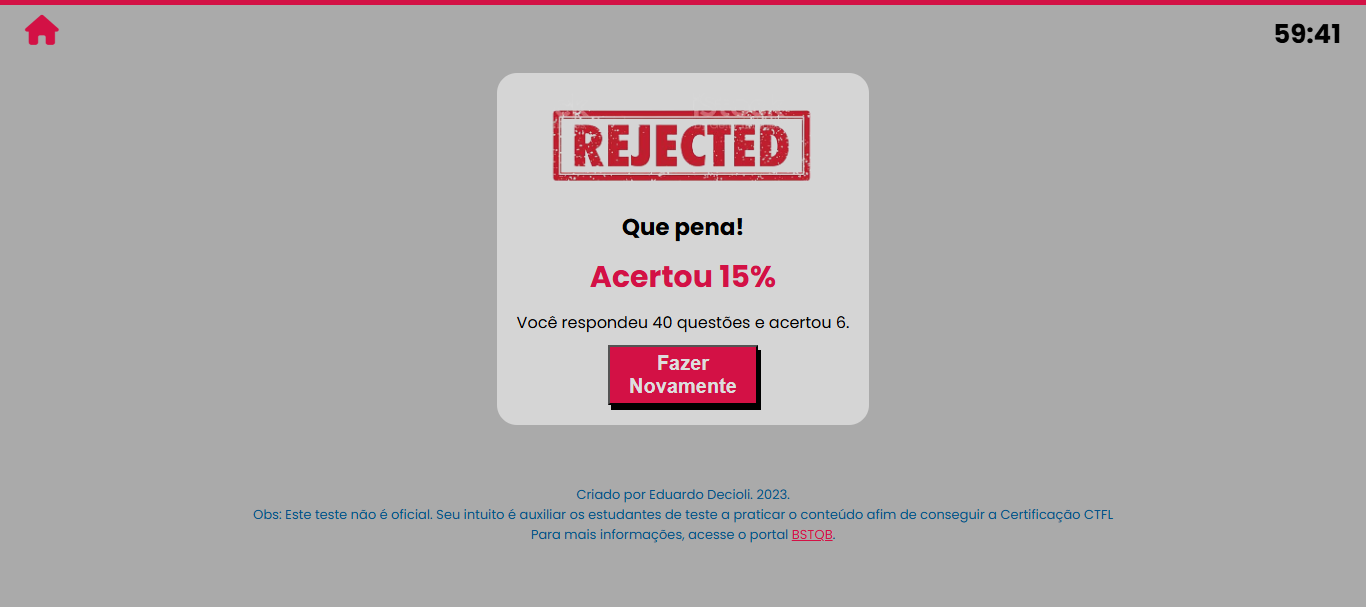
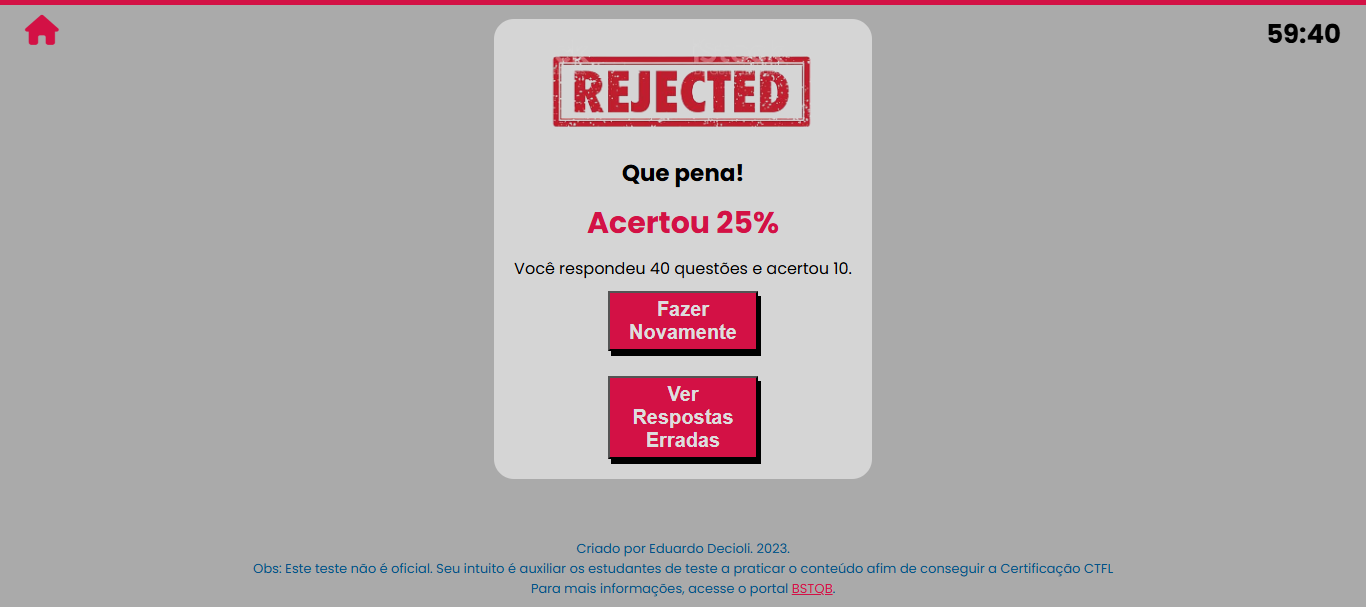
Criado botão para mostrar questões erradas
Criado botão 'Ver Respostas Erradas' para conferir as respostas selecionadas erradas e também implementado para selecionar as questões randomicamente.

diff --git a/CTFL/script.js b/CTFL/script.js
@@ -3,12 +3,12 @@
 let currentQuestion = 0;
 let points = 0;
 var timer;
+const respostasErradas = [];
 
 let scoreArea = document.querySelector('.scoreArea button')
-if(scoreArea){
+if (scoreArea) {
     scoreArea.addEventListener('click', resetEvent)
 }
-
 
 //função do botão iniciar
 function comecar() {
@@ -18,15 +18,16 @@ function comecar() {
     startTimer();
     showQuestion();
 }
+
 //função para começar o timer
-function startTimer(){
+function startTimer() {
     var presentTime = document.getElementById("timer").innerHTML;
     var timeArray = presentTime.split(":");
     var minutes = timeArray[0];
     var seconds = timeArray[1];
     var totalSeconds = minutes * 60 + parseInt(seconds);
-  
-    timer = setInterval(function() {
+
+    timer = setInterval(function () {
         if (totalSeconds <= 0) {
             clearInterval(timer);
             alert("Timer finalizado!");
@@ -39,58 +40,73 @@ function startTimer(){
         }
         document.getElementById("timer").innerHTML = minutes + ":" + seconds;
         totalSeconds--;
-  }, 1000);
+    }, 1000);
 }
-function stopTimer(){
+function stopTimer() {
     clearInterval(timer);
 }
+
 //função para mostrar as questões;
-function showQuestion(){
-    if (questions[currentQuestion]){
-        let q = questions[currentQuestion];
-        
-        //calcula porcentagem para fazer a animação na barra de progresso avançar conforme avança as questões
-        let pct = Math.floor((currentQuestion / questions.length) * 100);
+let questionsShuffled = [];
+
+function shuffleQuestions() {
+    questionsShuffled = [...questions]; // copia o array original
+    for (let i = questionsShuffled.length - 1; i > 0; i--) {
+        let j = Math.floor(Math.random() * (i + 1));
+        [questionsShuffled[i], questionsShuffled[j]] = [questionsShuffled[j], questionsShuffled[i]];
+    }
+}
+
+function showQuestion() {
+    if (currentQuestion === 0) shuffleQuestions(); // embaralha no início
+
+    if (questionsShuffled[currentQuestion]) {
+        let q = questionsShuffled[currentQuestion];
+
+        let pct = Math.floor((currentQuestion / questionsShuffled.length) * 100);
         document.querySelector('.progress--bar').style.width = `${pct}%`;
 
-        //esconde a area do resultado e mostra a area das questões
         document.querySelector('.scoreArea').style.display = 'none';
         document.querySelector('.questionArea').style.display = 'block';
 
-        //monta a questão
-        document.querySelector('.question').innerHTML = parseInt(currentQuestion + 1) + ' - ' + q.question;
+        document.querySelector('.question').innerHTML = `${currentQuestion + 1} - ${q.question}`;
 
-        //colocar as alternativas
-        let optionsHTML = ''; 
+        let optionsHTML = '';
         for (let i in q.options) {
-            optionsHTML += `<div data-op="${i}" class="option"><span>${parseInt(i)+1}</span> ${q.options[i]}</div>`;
+            optionsHTML += `<div data-op="${i}" class="option"><span>${parseInt(i) + 1}</span> ${q.options[i]}</div>`;
         }
         document.querySelector('.options').innerHTML = optionsHTML;
 
-        //evento de clique na opção
-        document.querySelectorAll('.options .option').forEach(item =>{
+        document.querySelectorAll('.options .option').forEach(item => {
             item.addEventListener('click', optionClickEvent);
-        })
-    }
-    else{
+        });
+
+    } else {
         finishQuiz();
     }
-}    
+}
 
 //função para avançar as questões
 function optionClickEvent(e) {
     let clickedOption = parseInt(e.target.getAttribute('data-op'));
-    console.log(clickedOption)
-    
-    if(questions[currentQuestion].answer === clickedOption) {
+    let questaoAtual = questions[currentQuestion];
+
+    if (questaoAtual.answer === clickedOption) {
         points++;
+    } else {
+        respostasErradas.push({
+            numeroQuestao: currentQuestion + 1,
+            enunciado: questaoAtual.question,
+            alternativaSelecionada: questaoAtual.options[clickedOption],
+            respostaCorreta: questaoAtual.options[questaoAtual.answer]
+        });
     }
     currentQuestion++;
     showQuestion();
 }
 
 //função para quando acabar as questões
-function finishQuiz(){
+function finishQuiz() {
     let acertos = Math.floor((points / questions.length) * 100);
 
     document.querySelector('.scorePct').innerHTML = `Acertou ${acertos}%`
@@ -100,7 +116,7 @@ function finishQuiz(){
     document.querySelector('.questionArea').style.display = 'none';
     document.querySelector('.progress--bar').style.width = '100%';
 
-    if (acertos < 65){
+    if (acertos < 65) {
         let parabens = document.querySelector('.scoreText1');
         parabens.innerHTML = 'Que pena!'
         document.querySelector('.scorePct').style.color = '#D31145'
@@ -109,8 +125,34 @@ function finishQuiz(){
     stopTimer();
 }
 //função do botão "Fazer Novamente"
-function resetEvent(){
+function resetEvent() {
     window.location.reload();
     points = 0;
     currentQuestion = 0;
+    respostasErradas.length = 0;
 }
+
+//funcao do modal de respostas erradas
+function abrirModal() {
+    const conteudo = document.getElementById("conteudoErros");
+    conteudo.innerHTML = "";
+
+    if (respostasErradas.length === 0) {
+        conteudo.innerHTML = "<p>Parabéns! Você não errou nenhuma questão.</p>";
+    } else {
+        respostasErradas.forEach((erro) => {
+            conteudo.innerHTML += `
+                <p><strong>Questão ${erro.numeroQuestao}: ${erro.enunciado}</strong></p>
+                <p>Sua resposta: <span style="color:red;">${erro.alternativaSelecionada}</span></p>
+                <p>Resposta correta: <span style="color:green;">${erro.respostaCorreta}</span></p>
+                <hr>
+            `;
+        });
+    }
+    document.getElementById("modalErros").style.display = "flex";
+}
+
+function fecharModal() {
+    document.getElementById("modalErros").style.display = "none";
+}
+

diff --git a/CTFL/ctfl.html b/CTFL/ctfl.html
@@ -1,30 +1,32 @@
 <!DOCTYPE html>
 <html lang="pt">
+
 <head>
     <meta charset="UTF-8">
     <meta http-equiv="X-UA-Compatible" content="IE=edge">
     <meta name="viewport" content="width=device-width, initial-scale=1.0">
     <title>CTFL Quiz - Teste para a Certificação</title>
-    <link rel="shortcut icon" href="./img/Selo-CTFL.png" type="image/x-icon"/>
+    <link rel="shortcut icon" href="./img/Selo-CTFL.png" type="image/x-icon" />
     <link rel="stylesheet" href="https://cdnjs.cloudflare.com/ajax/libs/font-awesome/6.1.1/css/all.min.css">
     <link rel="stylesheet" href="https://cdn.linearicons.com/free/1.0.0/icon-font.min.css">
     <link rel="stylesheet" href="style.css" />
 </head>
+
 <body>
     <div class="progress">
         <div class="progress--bar"></div>
     </div>
-    <a href="../home.html"><i class="fa-solid fa-house home-link"></i></a>
+    <a href="../index.html"><i class="fa-solid fa-house home-link"></i></a>
     <div id="timer">60:00</div>
 
-    <img src="./img/ctfl.png" alt="ctfl" style="width: 250px;" id="ctfl-logo"> 
+    <img src="./img/ctfl.png" alt="ctfl" style="width: 250px;" id="ctfl-logo">
     <h1 id="titulo-inicial">Quiz Certificação CTFL</h1>
 
     <button id="start" onclick="comecar()">Iniciar</button>
     <div class="questionArea">
         <div class="question">...</div>
         <div class="options">
-            
+
         </div>
     </div>
 
@@ -33,16 +35,28 @@
         <div class="scoreText1">Parabéns! Você foi aprovado!</div>
         <div class="scorePct">Acertou 99%</div>
         <div class="scoreText2">Você respondeu 9 questões e acertou 8.</div>
-        <button id="reset" onclick="resetEvent()">Fazer Novamente</button>
-        
+        <button id="reset" onclick="resetEvent()">Fazer Novamente</button> <br> <br>
+        <button id="showWrongs" onclick="abrirModal()">Ver Respostas Erradas</button>
+    </div>
+
+    <!-- Modal -->
+    <div id="modalErros" class="modal" style="display:none;">
+        <span class="fechar" onclick="fecharModal()">&times;</span>
+        <div class="modal-conteudo">
+            <h2>Respostas Incorretas</h2>
+            <div id="conteudoErros"></div>
+        </div>
     </div>
 
     <footer id="footer">Criado por Eduardo Decioli. 2023.
-        <br> Obs: Este teste não é oficial. Seu intuito é auxiliar os estudantes de teste a praticar o conteúdo afim de conseguir a Certificação CTFL
-        <br> Para mais informações, acesse o portal <a style="color:#D31145" href="https://bstqb.org.br/b9/sobre-ctfl">BSTQB</a>.
+        <br> Obs: Este teste não é oficial. Seu intuito é auxiliar os estudantes de teste a praticar o conteúdo afim de
+        conseguir a Certificação CTFL
+        <br> Para mais informações, acesse o portal <a style="color:#D31145"
+            href="https://bstqb.org.br/b9/sobre-ctfl">BSTQB</a>.
     </footer>
 
     <script src="questions.js"></script>
     <script src="script.js"></script>
 </body>
+
 </html>

diff --git a/CTFL/style.css b/CTFL/style.css
@@ -17,7 +17,7 @@ body {
 h1 {
     margin: 20px 0;
 }
-#start, #reset {
+#start, #reset, #showWrongs {
     padding: 5px;
     width: 150px;
     font-weight: 700;
@@ -147,6 +147,52 @@ h1 {
     background-color: rgba(0, 0, 0, 0.4);
 }
 
+.modal {
+  width: 60%;
+  height: 60%;
+  position: fixed;
+  top: 10;
+  left: 25%; /* centraliza horizontalmente */
+  background-color: rgba(0, 0, 0, 0.5);
+  display: flex;
+  justify-content: center;
+  align-items: center;
+}
+
+.modal-conteudo {
+  position: relative;
+  background-color: white;
+  width: 100%;
+  height: 100%;
+  padding: 30px;
+  overflow-y: auto;
+  border-radius: 8px;
+  box-shadow: 0 0 10px rgba(0,0,0,0.3);
+}
+
+/* Botão de fechar */
+.fechar {
+  position: absolute;
+  top: -10px;
+  right: -10px;
+  background-color: #ff4d4d;
+  color: white;
+  font-size: 20px;
+  font-weight: bold;
+  border: none;
+  border-radius: 50%;
+  width: 30px;
+  height: 30px;
+  cursor: pointer;
+  display: flex;
+  justify-content: center;
+  align-items: center;
+  box-shadow: 0 0 5px rgba(0,0,0,0.3);
+  z-index: 400;
+}
+.fechar:hover {
+  background-color: #e60000;
+}
 footer {
     text-align: center;
     margin-top: 50px;
